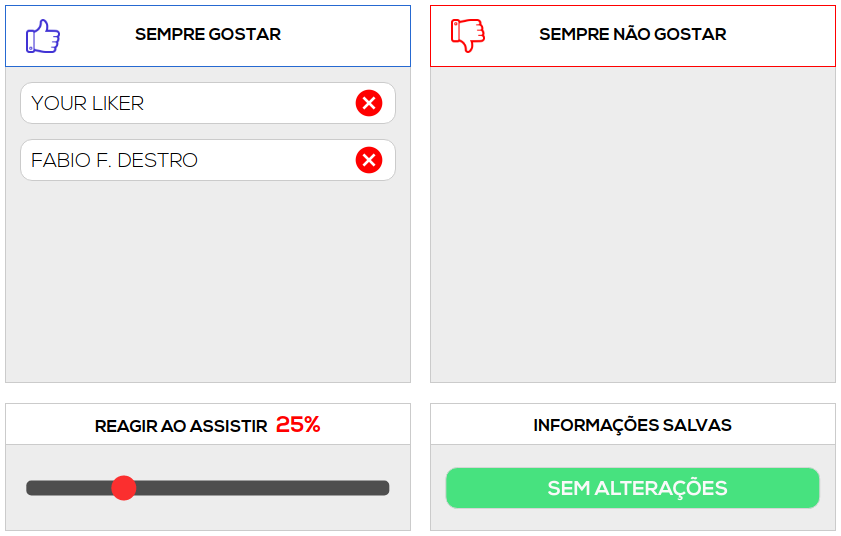
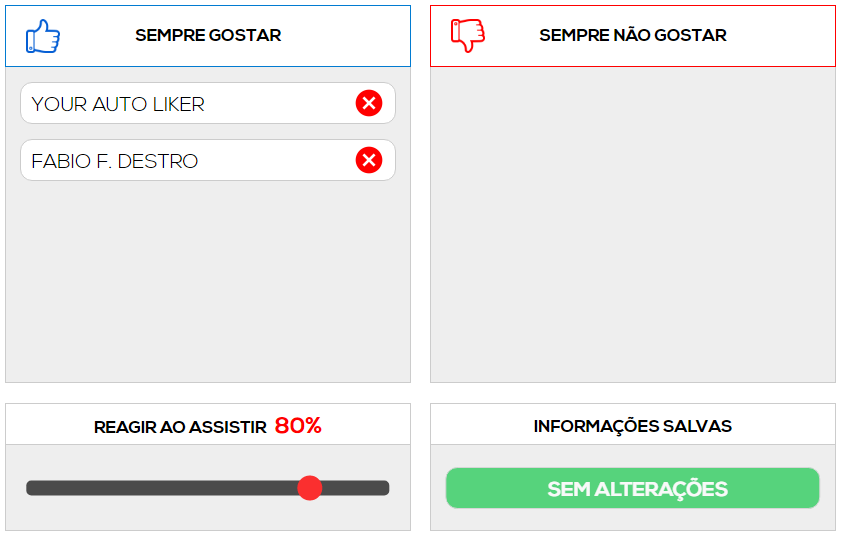
extension name update

diff --git a/docs/index.html b/docs/index.html
@@ -8,15 +8,7 @@
     <link rel="icon" href="files/favicon.ico" type="image/x-icon">
     <link rel="stylesheet" href="style.css">
     <link rel="stylesheet" href="files/header.css">
-    <title>Your Liker</title>
-
-    <script async src="//pagead2.googlesyndication.com/pagead/js/adsbygoogle.js"></script>
-    <script>
-        (adsbygoogle = window.adsbygoogle || []).push({
-            google_ad_client: "ca-pub-4272439442036720",
-            enable_page_level_ads: true
-        });
-    </script>
+    <title>Your Auto Liker</title>
 
 </head>
 
@@ -26,7 +18,7 @@
         <div id="header-fix">
             <div id="header-content">
                 <div id="logo">
-                    <a href="#"><img src="files/logo.png" alt="Your Liker"></a>
+                    <a href="#"><img src="files/logo.png" alt="Your Auto Liker"></a>
                 </div>
                 <nav>
                     <ul id="menu">

diff --git a/index.html b/index.html
@@ -1,13 +1,16 @@
 <!DOCTYPE html>
 <html>
-	<head>
-		<meta charset="UTF-8">
-		<!-- <link rel="stylesheet" href="style.css"> -->
-		<!--	<script src="popScript.js"></script> -->
-		<title>YouLike - Começe a utilizar!</title>
-	</head>
-	<body>
-		<h1>YouLike</h1>
-		<h2>Começe a utilizar</h2>
-	</body>
+
+<head>
+	<meta charset="UTF-8">
+	<!-- <link rel="stylesheet" href="style.css"> -->
+	<!--	<script src="popScript.js"></script> -->
+	<title>Your Auto Liker - Começe a utilizar!</title>
+</head>
+
+<body>
+	<h1>Your Auto Liker</h1>
+	<h2>Começe a utilizar</h2>
+</body>
+
 </html>

diff --git a/popup/popup.html b/popup/popup.html
@@ -4,7 +4,7 @@
 <head>
 	<meta charset="UTF-8">
 	<link rel="stylesheet" href="popup.css">
-	<title>Your Liker</title>
+	<title>Your Auto Liker</title>
 </head>
 
 <body>
@@ -13,7 +13,7 @@
 
 		<div id="header">
 			<img id="logo" src="../imgs/icon.png" />
-			<div id="name">YourLiker</div>
+			<div id="name">Your Auto Liker</div>
 			<div id="support" show="true"><a href="#">Apoiar a extensão</a></div>
 			<div id="subscribe" subscribed="false" show="false"><a href="#">Inscreva-se</a></div>
 		</div>

diff --git a/pages/configuration.html b/pages/configuration.html
@@ -17,7 +17,7 @@
         <div id="header-fix">
             <div id="header-content">
                 <div id="logo">
-                    <a href="#"><img src="../imgs/logo.png" alt="Your Liker"></a>
+                    <a href="#"><img src="../imgs/logo.png" alt="Your Auto Liker"></a>
                 </div>
                 <nav>
                     <ul id="menu">

diff --git a/docs/files/header.css b/docs/files/header.css
@@ -20,7 +20,7 @@ header {
 }
 
 #logo {
-    width: 170px;
+    width: 300px;
     position: absolute;
     top: 50%;
     transform: translateY(-50%);
@@ -28,7 +28,7 @@ header {
 
 #logo img {
     margin: 0 auto;
-    width: 190px;
+    width: 300px;
 }
 
 #logo a {

diff --git a/styles/header.css b/styles/header.css
@@ -20,7 +20,7 @@ header {
 }
 
 #logo {
-    width: 170px;
+    width: 300px;
     position: absolute;
     top: 50%;
     transform: translateY(-50%);
@@ -28,7 +28,7 @@ header {
 
 #logo img {
     margin: 0 auto;
-    width: 190px;
+    width: 300px;
 }
 
 #logo a {
